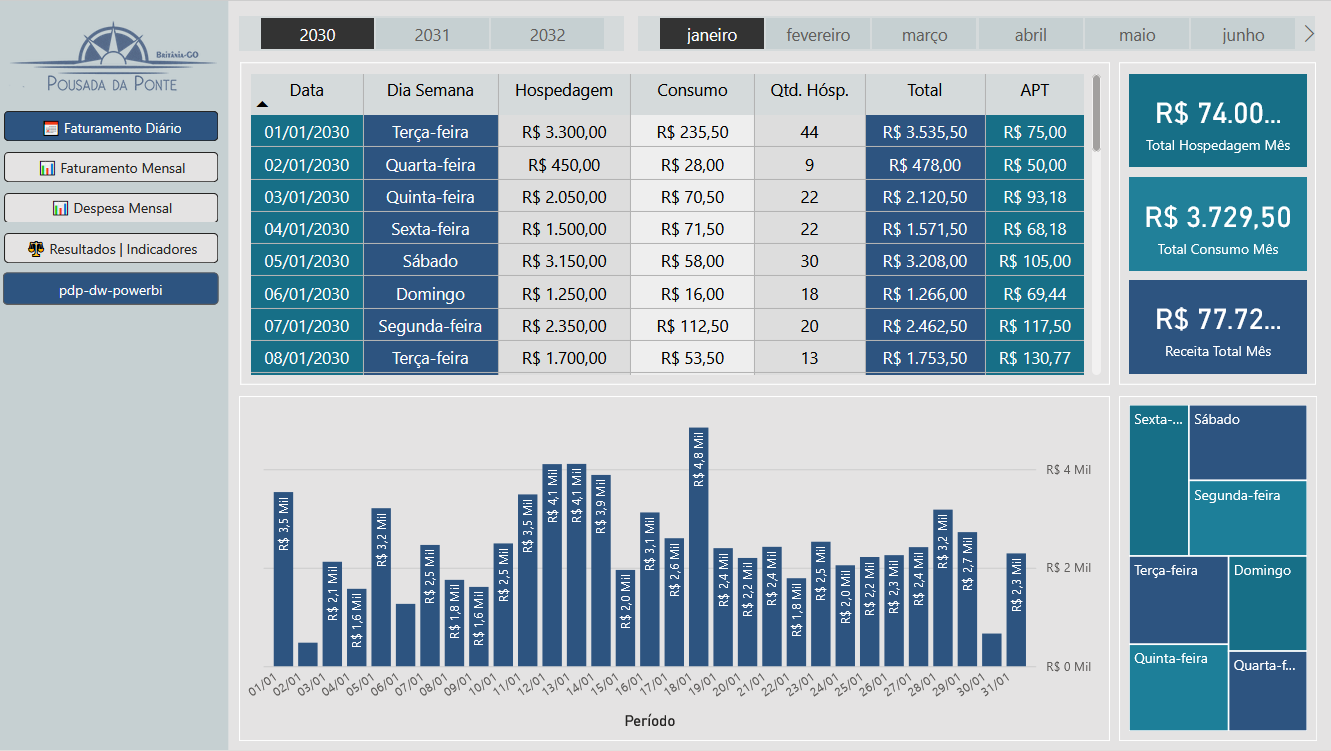
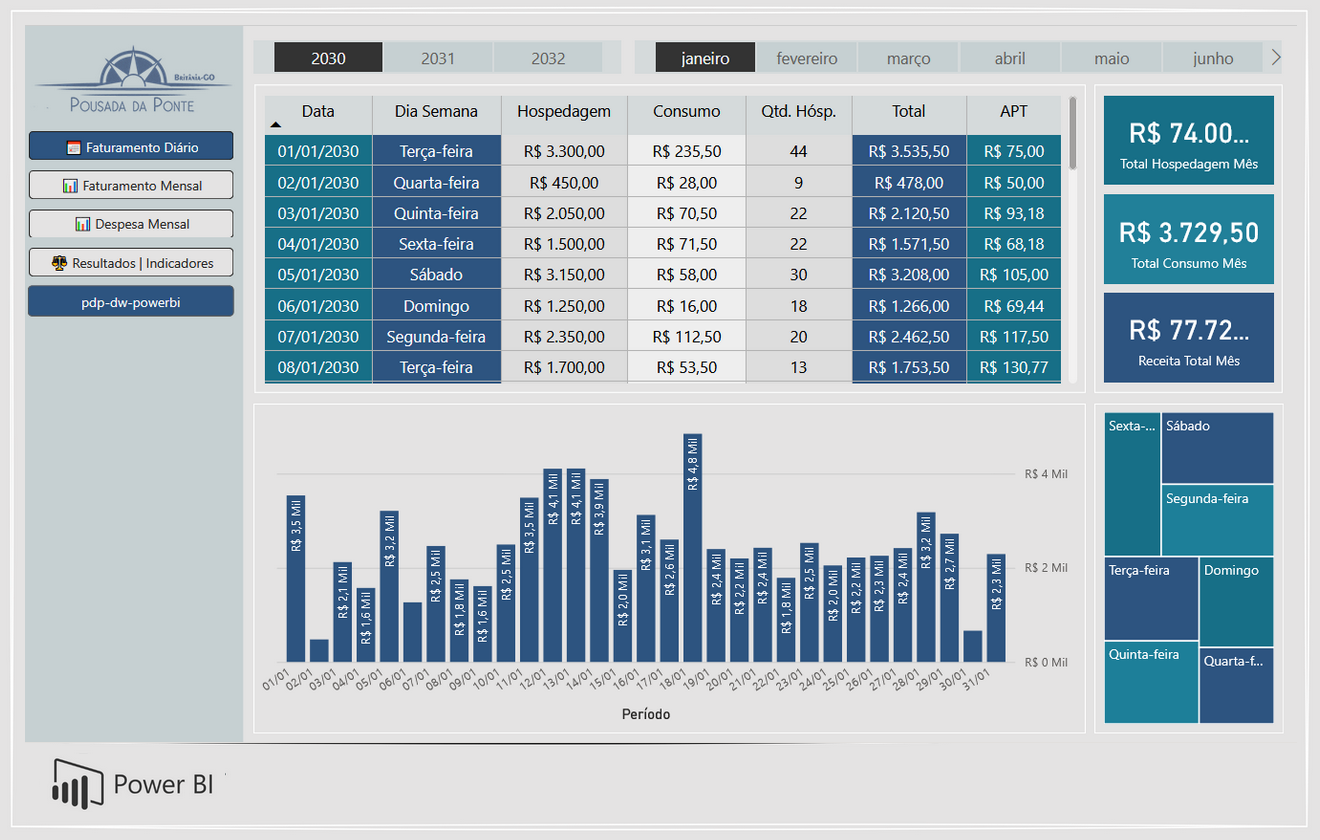
initial commit

diff --git a/airflow/dags/elt_dag.py b/airflow/dags/elt_dag.py
@@ -56,4 +56,4 @@ with DAG(
     )
 
 
-    extract_task >> load_task >> dbt_staging_task >> dbt_seed_task >> dbt_core_task >> dbt_test_task
+    extract_task >> load_task >> dbt_staging_task >> dbt_seed_task >> dbt_core_task >> dbt_test_task >> dbt_marts_task

diff --git a/README.md b/README.md
@@ -6,27 +6,37 @@ Este projeto tem como objetivo **implementar, modelar e consumir um Data Warehou
 
 O **Airflow** é responsável pela orquestração dos pipelines de extração, carregamento e transformação dos dados; o **DBT** atua na transformação e modelagem dos dados dentro do Data Warehouse, aplicando boas práticas de engenharia analítica; e o **Power BI** é utilizado na camada de visualização e análise, permitindo a criação de dashboards interativos e indicadores de desempenho.
 
-## 📍 Progresso do Projeto:
+## 📄 Relatório de Execução do Projeto
 
-- ✅ Criação das dimensões `dim_date` via Python que serão utilizadas como **seeds** no DBT.  
+- ✅ Criação da dimensão `dim_data` via Python que será utilizada como **seeds** no DBT.  
 - ✅ Ingestão de dados transacionais fictícios no banco de dados **SQL Server** do projeto [**pdp-hospedagem**](https://github.com/rafa-trindade/pdp-hospedagem) utilizando [**datafaker-rafatrindade**](https://github.com/rafa-trindade/datafaker-rafatrindade).  
 - ✅ **Conteinerização** do projeto utilizando **Docker**.
 - ✅ Implementação da **extração (Extract)** dos dados transacionais via pipeline orquestrada no **Airflow**, com arquivos extraídos salvos na pasta `data/extracted`.  
 - ✅ Implementação da **Carga (Load)** dos dados extraídos do SQL Server para a camada **raw** do Data Warehouse (PostgreSQL) via pipeline orquestrada no **Airflow**.  
 - ✅ **Transformações (Transform)** e modelagem dos dados no DBT, estruturando as camadas **staging** e **core**.  
 - ✅ Implementação de **testes automatizados** via DBT para garantir a **qualidade dos dados** na camada **core**.  
+- ✅ Modelagem de tabelas analíticas a partir das **tabelas fato e dimensão** utilizando o DBT na camada **mart**.  
+- ✅ **Dataviz:** Exemplo de consumo dos modelos analíticos no **Power BI** com criação de dashboards e relaórios.  
 
-
-## 🚧 Próximos Passos:
-
-- Modelagem de tabelas analíticas a partir das **tabelas fato e dimensão** utilizando o DBT na camada **mart**.  
-- **Dataviz:** Consumo dos modelos analíticos no **Power BI** para criação de dashboards e relaórios.  
-
-![projeto-pdp-dw-powerbi](./docs/projeto-v5.png)
+![projeto-pdp-dw-powerbi](./docs/projeto-v8.png)
 
 ___
 
-## 📊 Camada Marts - Data Warehouse *(em andamento 🚧)*:
+## 🧠 Orquestração das DAGs no Airflow:
+
+`extract_task` → `load_task` → `dbt_staging_task` → `dbt_seed_task` → `dbt_core_task` → `dbt_test_task` → `dbt_marts_task`
+
+- `extract_task`: Extrai os dados do **SQL Server**.  
+- `load_task`: Carrega os dados brutos na camada **raw** **(PostgreSQL)**.  
+- `dbt_staging_task`: Cria as views da camada **staging**, responsáveis por padronizar e preparar os dados brutos.  
+- `dbt_seed_task`: Carrega as dimensões estáticas **(seeds)**.  
+- `dbt_core_task`: Modela e cria as tabelas **fato** e **dimensão** materializadas na camada **core**.  
+- `dbt_test_task`: Executa **testes automatizados** de qualidade de dados na camada **core**.  
+- `dbt_marts_task`: Gera as views analíticas da camada **marts**, prontas para consumo no Power BI.
+
+---
+
+## 📊 Camada Marts - Data Warehouse:
 
 A camada **Marts** contém views analíticas derivadas das tabelas da camada **Core**. Cada subpasta organiza os modelos por **categoria de análise** ou **tipo de métrica**, facilitando a consulta e o consumo dos dados.
 
@@ -88,16 +98,18 @@ Resumo diário das receitas de hospedagens, com observações sobre feriados e f
 
 ## `pdp_dw_powerbi.pbix`
 
-![pdp_dw_powerbi.pbix](./reports/pdp_dw_powerbi.gif)
+![powerbi](./reports/pdp_dw_powerbi.png)
 
 ---
 
 ## 🧩 Modelagem:
 
-## 🧠 `modelo_olap`
+## `modelo_olap`
 ![Diagrama OLAP](./docs/olap-model-v3.png)
 
-## 🧩 `modelo_oltp`
+## 💻 Origem dos Dados Transacionais:
+
+## `pdp-hospedagem` [[link]](https://github.com/rafa-trindade/pdp-hospedagem)
 ![Diagrama OLTP](./docs/oltp-model-v4.png)
 
 ---
